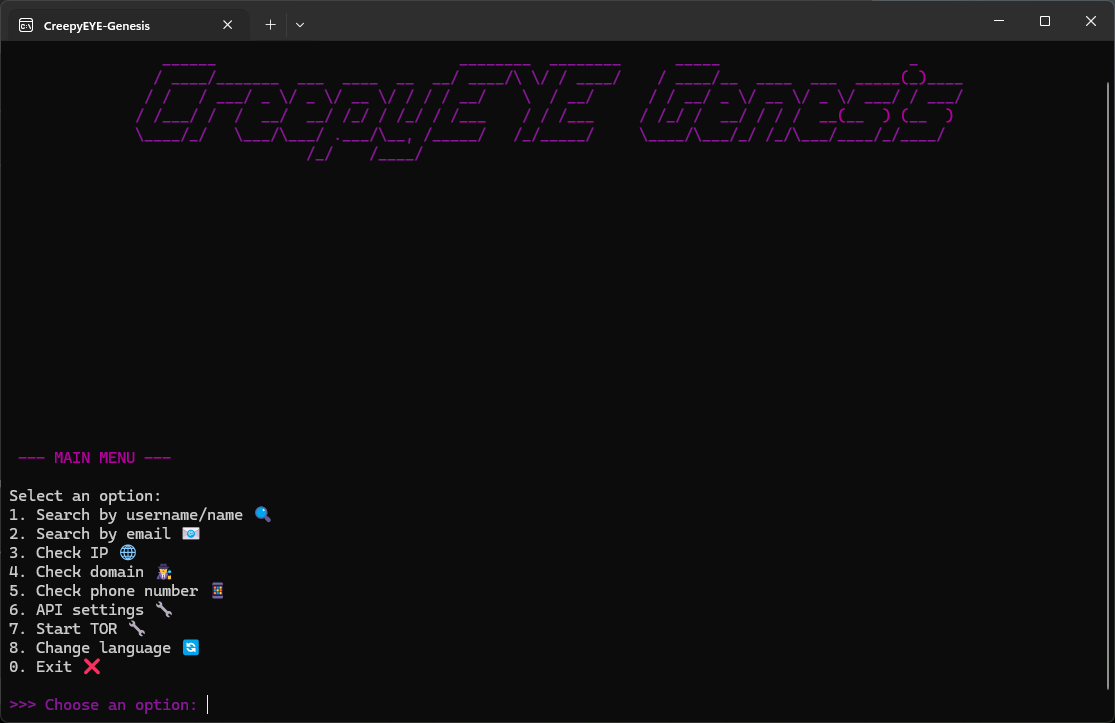
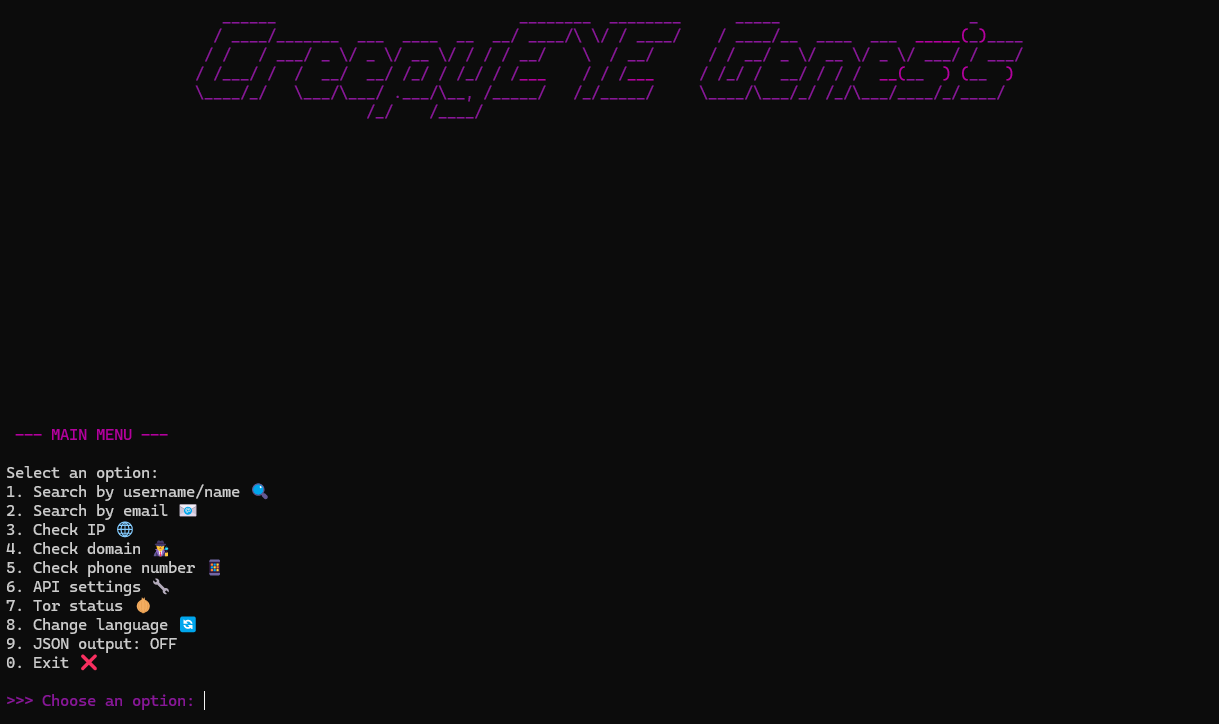
Add JSON reports and docs refresh
This update refreshes project branding and localized documentation, adds reporting and raw JSON output details, and clarifies API key handling and saved report behavior. It also renames the Tor menu option from 'Start TOR' to 'Tor status' across the language translations.

diff --git a/settings/translations.py b/settings/translations.py
@@ -333,7 +333,7 @@ menu = {
         "4. Перевірка домену 🕵",
         "5. Перевірка номера телефону 📱",
         "6. Налаштування API 🔧",
-        "7. Запустити TOR 🔧",
+        "7. Статус Tor 🧅",
         "8. Поміняти мову 🔄",
         "0. Вихід ❌"
     ],
@@ -345,7 +345,7 @@ menu = {
         "4. Check domain 🕵",
         "5. Check phone number 📱",
         "6. API settings 🔧",
-        "7. Start TOR 🔧",
+        "7. Tor status 🧅",
         "8. Change language 🔄",
         "0. Exit ❌"
     ],
@@ -357,7 +357,7 @@ menu = {
         "4. Проверка домена 🕵",
         "5. Проверка номера телефона 📱",
         "6. Настройки API 🔧",
-        "7. Запустить TOR 🔧",
+        "7. Статус Tor 🧅",
         "8. Сменить язык 🔄",
         "0. Выход ❌"
     ]

diff --git a/README_ru.md b/README_ru.md
@@ -23,7 +23,7 @@
 
 | Windows | Linux |
 |---------|-------|
-| ![CE Win](./PNG/CE_Windows_ru.png) | ![CE Linux](./PNG/CE_Linux_ru.png) |
+| <img src="./PNG/CE_Windows_ru.png" alt="CreepyEYE Genesis - Russian UI on Windows" width="340"> | <img src="./PNG/CE_Linux_ru.png" alt="CreepyEYE Genesis - Russian UI on Linux" width="340"> |
 
 
 
@@ -40,6 +40,8 @@
 📱 Телефоны: `Numverify`  
 🧅 Поддержка Tor для анонимности  
 🈯 Меню выбора языка (`Украинский` / `Английский` / `Русский`)  
+🧾 Сырой JSON-вывод — переключается из меню (пункт `9`), действует сразу  
+💾 Экспорт отчётов — сохранение скана в JSON в папку `reports/`  
 ⚙ Автоматическая установка зависимостей
 
 ---
@@ -48,9 +50,9 @@
 
 | Язык | Windows | Linux |
 |----------|---------|-------|
-| Русский  | ![CE Win RU](./PNG/CE_Windows_ru.png) | ![CE Linux RU](./PNG/CE_Linux_ru.png) |
-| Украинский | ![CE Win UA](./PNG/CE_Windows_ua.png) | ![CE Linux UA](./PNG/CE_Linux_ua.png) |
-| Английской | ![CE Win](./PNG/CE_Windows.png) | ![CE Linux](./PNG/CE_Linux.png) |
+| Русский  | <img src="./PNG/CE_Windows_ru.png" alt="CreepyEYE Genesis - Russian UI on Windows" width="340"> | <img src="./PNG/CE_Linux_ru.png" alt="CreepyEYE Genesis - Russian UI on Linux" width="340"> |
+| Украинский | <img src="./PNG/CE_Windows_ua.png" alt="CreepyEYE Genesis - Ukrainian UI on Windows" width="340"> | <img src="./PNG/CE_Linux_ua.png" alt="CreepyEYE Genesis - Ukrainian UI on Linux" width="340"> |
+| Английский | <img src="./PNG/CE_Windows.png" alt="CreepyEYE Genesis - English UI on Windows" width="340"> | <img src="./PNG/CE_Linux.png" alt="CreepyEYE Genesis - English UI on Linux" width="340"> |
 
 ---
 
@@ -82,13 +84,22 @@
    python ce_genesis.py
    ```
 
+6. **Запуск тестов** *(необязательно, для контрибьюторов)*
+
+   ```sh
+   python -m unittest discover -s tests
+   ```
+
 ---
 
 ## Настройка API ключей
 
-При запуске программы вы сможете создать или открыть файл с API ключами (`settings/api/api_keys.env`).
-Вы можете добавлять или изменять ключи в любое время.
-Откройте файл и вставьте ваши ключи:
+API ключи хранятся в файле `settings/api/api_keys.env`.
+Откройте его из главного меню — пункт **`6. Настройки API`**: программа создаст файл из шаблона,
+если его ещё нет, откроет в вашем редакторе по умолчанию, а затем попросит перезапустить
+CreepyEYE, чтобы новые значения подхватились. Файл можно править вручную в любое время.
+Значения-заглушки из шаблона (`your_shodan_api_key`, …) считаются отсутствующими ключами, поэтому
+замените те, которыми собираетесь пользоваться:
 
 * SHODAN\_API\_KEY
 * IPINFO\_TOKEN
@@ -109,7 +120,7 @@
 | AbuseIPDB    | [https://www.abuseipdb.com/](https://www.abuseipdb.com/)   | Проверка, не сообщалось ли о вредоносной активности с IP |
 | Hunter.io    | [https://hunter.io/](https://hunter.io/)                   | Проверка email и поиск по домену                         |
 | Numverify    | [https://numverify.com/](https://numverify.com/)           | Проверка номеров телефонов                               |
-| GreyNoise    | [https://greynoise.io/](https://api.greynoise.io/)     | Контекст сканеров/ботов                                  |
+| GreyNoise    | [https://greynoise.io/](https://greynoise.io/)     | Контекст сканеров/ботов                                  |
 | EmailRep.io  | [https://emailrep.io/](https://emailrep.io/)               | Репутация email адресов                                  |
 | WhoisXML API | [https://whoisxmlapi.com/](https://whoisxmlapi.com/)       | WHOIS данные и информация о доменах                      |
 | VirusTotal   | [https://www.virustotal.com/](https://www.virustotal.com/) | Сканирование IP, доменов и файлов на вирусы              |
@@ -123,10 +134,43 @@
 
 ---
 
+## JSON-вывод
+
+Пункт меню **`9`** включает и выключает сырой JSON-вывод (`JSON-вывод: ВКЛ / ВЫКЛ`). Когда он
+включён, каждый модуль дополнительно печатает в терминал неизменённый ответ API — удобно для
+отладки или чтобы передать результат дальше. Переключатель действует сразу, без перезапуска, и
+**не** влияет на содержимое сохранённых отчётов.
+
+---
+
+## Отчёты
+
+После каждого скана программа спрашивает `Сохранить полный отчёт? (y/n)`. Если ответить `y`,
+результат запишется в файл:
+
+```
+reports/<цель>_<тип>_<ГГГГММДД-ЧЧММСС>.json
+```
+
+Это JSON в UTF-8, содержащий версию инструмента, цель и её тип, время начала и завершения в UTC,
+признак того, действительно ли запросы шли через Tor, и результат каждого отработавшего модуля.
+API ключи вырезаются из данных перед записью на диск.
+
+> ⚠ Папка `reports/` намеренно добавлена в `.gitignore` — результаты сканов содержат информацию
+> о вашей цели и не должны попадать в форки, pull request-ы или issues.
+
+---
+
 ## Важное уведомление
 
 Инструмент предназначен только для этического OSINT.
 Используйте ответственно и в рамках закона.
+
+---
+
+## Лицензия
+
+[MIT License](LICENSE)
 
 ---
 
@@ -164,6 +208,6 @@
 
 - 🇺🇦 [Українська версія](./README_ua.md)
 - 🇷🇺 Русская версия (Этот перевод)
-- 🇬🇧 [Englis](./README.md)
+- 🇬🇧 [English Version](./README.md)
 
 ---

diff --git a/README_ua.md b/README_ua.md
@@ -17,7 +17,7 @@
 
 | Windows | Linux |
 |---------|-------|
-| ![CE Win](./PNG/CE_Windows_ua.png) | ![CE Linux](./PNG/CE_Linux_ua.png) |
+| <img src="./PNG/CE_Windows_ua.png" alt="CreepyEYE Genesis - Ukrainian UI on Windows" width="340"> | <img src="./PNG/CE_Linux_ua.png" alt="CreepyEYE Genesis - Ukrainian UI on Linux" width="340"> |
 
 
 
@@ -34,6 +34,8 @@
 📱 Телефонні номери: `Numverify`  
 🧅 Підтримка Tor для анонімності  
 🈯 Меню з вибором мови (`Українська` / `Англійська` / `Російська`)  
+🧾 Сирий JSON-вивід — перемикається з меню (пункт `9`), діє одразу  
+💾 Експорт звітів — збереження скану у JSON в теку `reports/`  
 ⚙ Автоматичне встановлення залежностей
 
 ---
@@ -42,9 +44,9 @@
 
 | Мова | Windows | Linux |
 |----------|---------|-------|
-| Українська | ![CE Win UA](./PNG/CE_Windows_ua.png) | ![CE Linux UA](./PNG/CE_Linux_ua.png) |
-| Російська | ![CE Win RU](./PNG/CE_Windows_ru.png) | ![CE Linux RU](./PNG/CE_Linux_ru.png) |
-| Англіська  | ![CE Win](./PNG/CE_Windows.png) | ![CE Linux](./PNG/CE_Linux.png) |
+| Українська | <img src="./PNG/CE_Windows_ua.png" alt="CreepyEYE Genesis - Ukrainian UI on Windows" width="340"> | <img src="./PNG/CE_Linux_ua.png" alt="CreepyEYE Genesis - Ukrainian UI on Linux" width="340"> |
+| Російська | <img src="./PNG/CE_Windows_ru.png" alt="CreepyEYE Genesis - Russian UI on Windows" width="340"> | <img src="./PNG/CE_Linux_ru.png" alt="CreepyEYE Genesis - Russian UI on Linux" width="340"> |
+| Англійська | <img src="./PNG/CE_Windows.png" alt="CreepyEYE Genesis - English UI on Windows" width="340"> | <img src="./PNG/CE_Linux.png" alt="CreepyEYE Genesis - English UI on Linux" width="340"> |
 
 ---
 
@@ -74,13 +76,21 @@
    python ce_genesis.py
    ```
 
+6. **Запустіть тести** *(необов'язково, для контриб'юторів)*  
+   ```sh
+   python -m unittest discover -s tests
+   ```
+
 ---
 
 ## Налаштування API ключів
 
-Під час запуску в програмі буде опція створити або відкрити файл з API ключами (`settings/api/api_keys.env`).  
-Ви можете додати або змінити ключі у цьому файлі у будь-який час.
-Відкрийте цей файл та вставте свої ключі:
+API ключі зберігаються у файлі `settings/api/api_keys.env`.  
+Відкрийте його з головного меню — пункт **`6. Налаштування API`**: програма створить файл із
+шаблону, якщо його ще немає, відкриє у вашому редакторі за замовчуванням, а потім попросить
+перезапустити CreepyEYE, щоб нові значення підхопилися. Файл можна редагувати вручну будь-коли.  
+Значення-заповнювачі з шаблону (`your_shodan_api_key`, …) вважаються відсутніми ключами, тож
+замініть ті, якими плануєте користуватися:
 
 - SHODAN_API_KEY
 - IPINFO_TOKEN
@@ -113,6 +123,33 @@
 
 Для підвищення анонімності рекомендується запускати Tor (наприклад, через Tor Browser або tor.exe).  
 Програма автоматично визначає, чи працює Tor, і використовує його для запитів.
+
+---
+
+## JSON-вивід
+
+Пункт меню **`9`** вмикає та вимикає сирий JSON-вивід (`JSON-вивід: УВІМК / ВИМК`). Коли він
+увімкнений, кожен модуль додатково друкує в термінал незмінену відповідь API — зручно для
+налагодження або щоб передати результат далі. Перемикач діє одразу, без перезапуску, і **не**
+впливає на вміст збережених звітів.
+
+---
+
+## Звіти
+
+Після кожного скану програма питає `Зберегти повний звіт? (y/n)`. Якщо відповісти `y`, результат
+запишеться у файл:
+
+```
+reports/<ціль>_<тип>_<РРРРММДД-ГГХВСС>.json
+```
+
+Це JSON у UTF-8, який містить версію інструменту, ціль і її тип, час початку та завершення в UTC,
+ознаку того, чи справді запити йшли через Tor, і результат кожного модуля, що відпрацював.
+API ключі вирізаються з даних перед записом на диск.
+
+> ⚠ Теку `reports/` навмисно додано до `.gitignore` — результати сканів містять інформацію про
+> вашу ціль і не повинні потрапляти у форки, pull request-и чи issues.
 
 ---
 

diff --git a/README.md b/README.md
@@ -17,7 +17,7 @@
 
 | Windows | Linux |
 |---------|-------|
-| ![CE Win](./PNG/CE_Windows.png) | ![CE Linux](./PNG/CE_Linux.png) |
+| <img src="./PNG/CE_Windows.png" alt="CreepyEYE Genesis - English UI on Windows" width="340"> | <img src="./PNG/CE_Linux.png" alt="CreepyEYE Genesis - English UI on Linux" width="340"> |
 
 
 
@@ -35,6 +35,8 @@
 📱 Phone numbers: `Numverify`  
 🧅 Tor support for anonymity  
 🈯 Language selection menu (`Ukrainian` / `English` / `Russian`)  
+🧾 Raw JSON output — toggled from the menu (option `9`), applies instantly  
+💾 Report export — save any scan as JSON into `reports/`  
 ⚙ Automatic dependency installation
 
 ---
@@ -43,9 +45,9 @@
 
 | Language | Windows | Linux |
 |----------|---------|-------|
-| English  | ![CE Win](./PNG/CE_Windows.png) | ![CE Linux](./PNG/CE_Linux.png) |
-| Ukrainian | ![CE Win UA](./PNG/CE_Windows_ua.png) | ![CE Linux UA](./PNG/CE_Linux_ua.png) |
-| Russian  | ![CE Win RU](./PNG/CE_Windows_ru.png) | ![CE Linux RU](./PNG/CE_Linux_ru.png) |
+| English  | <img src="./PNG/CE_Windows.png" alt="CreepyEYE Genesis - English UI on Windows" width="340"> | <img src="./PNG/CE_Linux.png" alt="CreepyEYE Genesis - English UI on Linux" width="340"> |
+| Ukrainian | <img src="./PNG/CE_Windows_ua.png" alt="CreepyEYE Genesis - Ukrainian UI on Windows" width="340"> | <img src="./PNG/CE_Linux_ua.png" alt="CreepyEYE Genesis - Ukrainian UI on Linux" width="340"> |
+| Russian  | <img src="./PNG/CE_Windows_ru.png" alt="CreepyEYE Genesis - Russian UI on Windows" width="340"> | <img src="./PNG/CE_Linux_ru.png" alt="CreepyEYE Genesis - Russian UI on Linux" width="340"> |
 
 ---
 
@@ -75,13 +77,21 @@
    python ce_genesis.py
    ```
 
+6. **Run the tests** *(optional, for contributors)*  
+   ```sh
+   python -m unittest discover -s tests
+   ```
+
 ---
 
 ## API Keys Setup
 
-When you start the program, you will have an option to create or open the API keys file (`settings/api/api_keys.env`).  
-You can add or modify keys in this file anytime.  
-Open the file and insert your keys:
+API keys are stored in `settings/api/api_keys.env`.  
+Open it from the main menu — option **`6. API settings`**: the program creates the file from a
+template if it does not exist yet, opens it in your default editor, and then asks you to restart
+CreepyEYE so the new values are loaded. You can also edit the file by hand at any time.  
+The template placeholders (`your_shodan_api_key`, …) are treated as missing keys, so replace the
+ones you intend to use:
 
 - SHODAN_API_KEY  
 - IPINFO_TOKEN  
@@ -117,10 +127,42 @@ The program automatically detects if Tor is running and uses it for requests.
 
 ---
 
+## JSON Output
+
+Menu option **`9`** toggles raw JSON output (`JSON output: ON / OFF`). When it is ON, every module
+also prints the unmodified API response to the terminal, which is useful for debugging or for
+piping results somewhere else. The switch takes effect immediately — no restart — and it does not
+change what is written into saved reports.
+
+---
+
+## Reports
+
+After every scan the program asks `Save full report? (y/n)`. Answer `y` and the result is written to:
+
+```
+reports/<target>_<type>_<YYYYMMDD-HHMMSS>.json
+```
+
+The file is UTF-8 JSON and holds the tool version, the target and its type, the UTC start/finish
+timestamps, whether the requests actually went through Tor, and the result of every module that ran.
+API keys are stripped from the data before it is written to disk.
+
+> ⚠ `reports/` is listed in `.gitignore` on purpose — scan results contain information about your
+> target and must not end up in forks, pull requests or issues.
+
+---
+
 ## Important Notice
 
 This tool is intended for ethical OSINT only.  
 Use responsibly and within the law.
+
+---
+
+## License
+
+[MIT License](LICENSE)
 
 ---
 

diff --git a/SECURITY_ru.md b/SECURITY_ru.md
@@ -13,6 +13,7 @@
 ### Работа с данными
 
 * CreepyEYE **не хранит ваши API ключи** (ключи сохраняются локально в `settings/api/api_keys.env`)
+* Отчёты сканов, которые вы решили сохранить, остаются **на вашей машине** в папке `reports/` — она в `.gitignore`, а API ключи вырезаются из данных перед записью
 * Вы несете ответственность за данные, которые вводите (email, IP, логины, домены, номера телефонов)
 * Не передавайте личную информацию третьим лицам
 
@@ -35,8 +36,8 @@
 
 ### Другие языки:
 
-- 🇺🇦 [Українська версія](./README_ua.md)
+- 🇺🇦 [Українська версія](./SECURITY_ua.md)
 - 🇷🇺 Русская версия (Этот перевод)
-- 🇬🇧 [Englis](./README.md)
+- 🇬🇧 [English Version](./SECURITY.md)
 
 ---

diff --git a/SECURITY_ua.md b/SECURITY_ua.md
@@ -11,6 +11,7 @@
 ### Обробка даних
 
 * CreepyEYE **не зберігає ваші API ключі** (ключі зберігаються локально в `settings/api/api_keys.env`)
+* Звіти сканів, які ви вирішили зберегти, лишаються **на вашій машині** у теці `reports/` — вона в `.gitignore`, а API ключі вирізаються з даних перед записом
 * Ви несете відповідальність за дані, які вводите (емейли, IP, логіни, домени, номери телефонів)
 * Не передавайте особисту інформацію третім особам
 
@@ -34,7 +35,7 @@
 ### Інші мови:
 
 - 🇺🇦 Українська Версія (Цей переклад)
-- 🇷🇺 [Русская Версия](./README_ru.md)
-- 🇬🇧 [English Version](./README.md)
+- 🇷🇺 [Русская Версия](./SECURITY_ru.md)
+- 🇬🇧 [English Version](./SECURITY.md)
 
 ---

diff --git a/SECURITY.md b/SECURITY.md
@@ -11,6 +11,7 @@
 ### Data Handling
 
 * CreepyEYE does **not store your API keys** (keys are saved locally in `settings/api/api_keys.env`)
+* Scan reports you choose to save stay **on your machine** in `reports/` — that folder is gitignored, and API keys are stripped from the data before it is written
 * You are responsible for the data you input (emails, IPs, usernames, domains, phone numbers)
 * Do **not** transmit personal information of others to third parties
 
@@ -32,8 +33,8 @@
 ---
 
 ### Available translations
-- 🇺🇦 [Українська версія](./README_ua.md)
-- 🇷🇺 [Русская Версия](./README_ru.md)
+- 🇺🇦 [Українська версія](./SECURITY_ua.md)
+- 🇷🇺 [Русская Версия](./SECURITY_ru.md)
 - 🇬🇧 English Version (This Translation)
 
 
